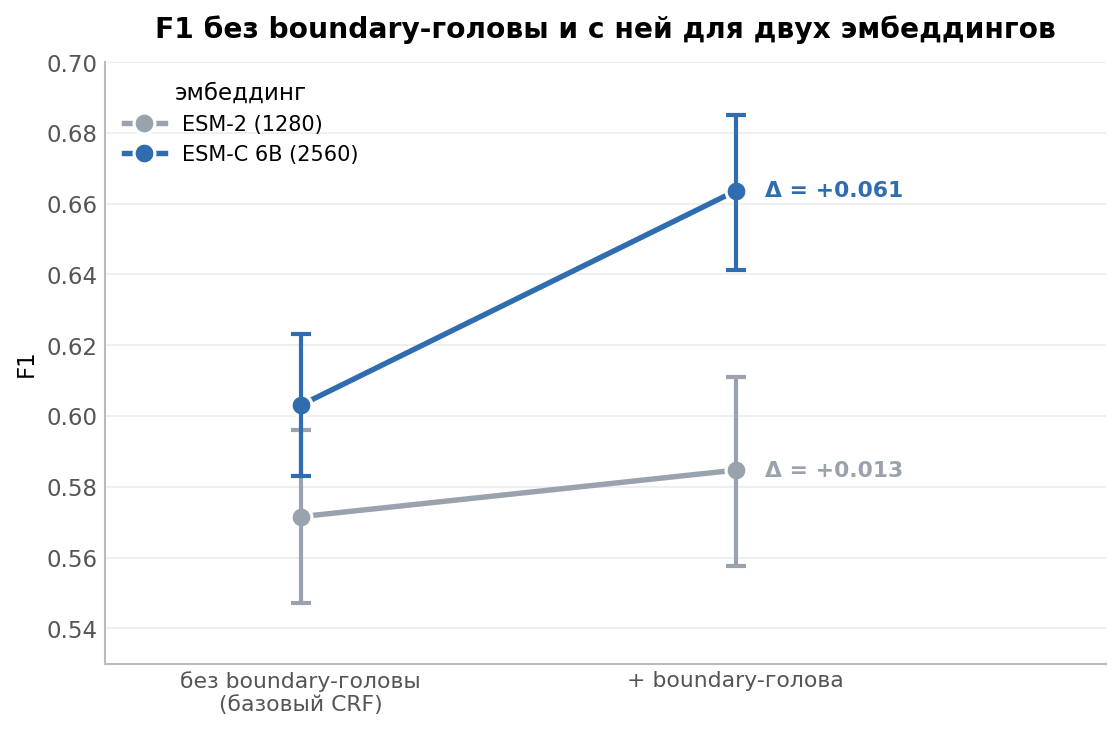
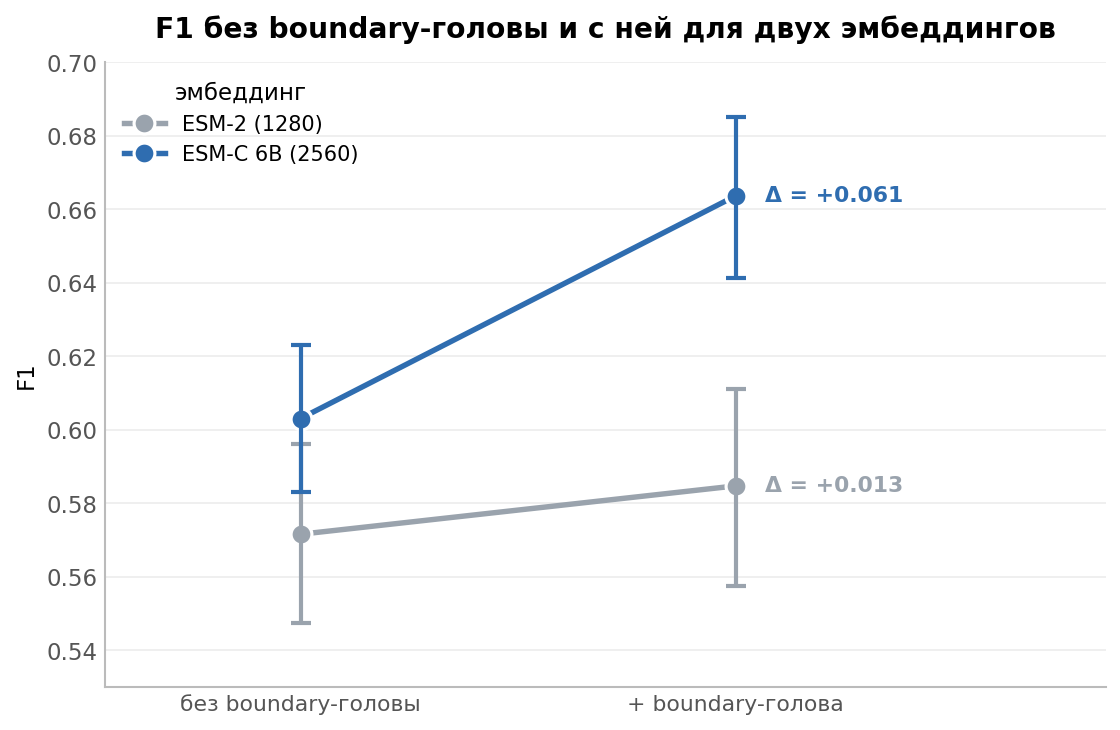
figures: drop '(базовый CRF)' x-tick on interaction

diff --git a/analysis/metrics/src/generators/report_fig_interaction.py b/analysis/metrics/src/generators/report_fig_interaction.py
@@ -50,7 +50,7 @@ for name,d in pts.items():
                 xytext=(14,0),ha="left",va="center",fontsize=10.5,color=d["col"],weight="bold")
     pd_,plo,phi=paired_delta(d["head"],d["plain"])
     print(f"{name}: plain={p0:.3f} [{l0:.3f},{h0:.3f}]  head={p1:.3f} [{l1:.3f},{h1:.3f}]  Δ={dt:+.3f}  (paired CI [{plo:+.3f},{phi:+.3f}])")
-ax.set_xticks(x); ax.set_xticklabels(["без boundary-головы\n(базовый CRF)","+ boundary-голова"],fontsize=10.5)
+ax.set_xticks(x); ax.set_xticklabels(["без boundary-головы","+ boundary-голова"],fontsize=10.5)
 ax.set_xlim(-0.45,1.85); ax.set_ylim(0.53,0.70); ax.set_ylabel("F1")
 ax.grid(axis="x",alpha=0); ax.tick_params(length=0); ax.legend(loc="upper left",title="эмбеддинг")
 ax.set_title(ptitle("F1 без boundary-головы и с ней для двух эмбеддингов\n(95 % ДИ)"),fontsize=13.5,loc="center",pad=12)
